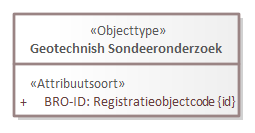
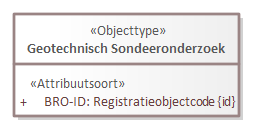
Conceptualmodel-GMWconceptueelMIM-1.1-1-20231103-20231120-144605

Changed region(s): [[0.0824, 0.3008, 0.8784, 0.4211]]

diff --git a/data/GMW-cat.msword.html b/data/GMW-cat.msword.html
@@ -15,7 +15,7 @@
    <body>
       <p>Conceptual model/GMW conceptueel MIM/20231103</p>
       <p>Imvertor: Nightly-build.13</p>
-      <p>Model release: Conceptualmodel-GMWconceptueelMIM-1.1-1-20231103-20231117-121644</p>
+      <p>Model release: Conceptualmodel-GMWconceptueelMIM-1.1-1-20231103-20231120-144605</p>
       <hr>
       <section>
          <h1>Artikel 1 Definitie van registratieobject, entiteiten en attributen</h1>
@@ -63,7 +63,7 @@
          <section>
             <h2>Het domeinmodel</h2>
             <section>
-               <div class="imageinfo overview"><img src="Images/EAID_E820AF53_7FB7_42e8_95C4_297D746526CE.png" usemap="#imagemap-EAID_E820AF53_7FB7_42e8_95C4_297D746526CE" alt="Diagram &#xA;                        &#xA;                     "><map name="imagemap-EAID_E820AF53_7FB7_42e8_95C4_297D746526CE"><area shape="rect" alt="Registratieobject" coords="655,42,928,217" href="#global_class_Model_Registratieobject"><area shape="rect" alt="Geotechnish Sondeeronderzoek" coords="1336,651,1562,755" href="#global_class_Model_GeotechnishSondeeronderzoek"><area shape="rect" alt="Verkenning" coords="1116,614,1238,665" href="#global_class_Model_Verkenning"><area shape="rect" alt="Booronderzoek" coords="1336,535,1562,639" href="#global_class_Model_Booronderzoek"><area shape="rect" alt="Monitoringbuis" coords="534,805,1025,1234" href="#global_class_Model_Monitoringbuis"><area shape="rect" alt="Toegepast materiaal" coords="534,1299,806,1438" href="#global_class_Model_Toegepastmateriaal"><area shape="rect" alt="Ingeplaatst deel" coords="1168,970,1482,1108" href="#global_class_Model_Ingeplaatstdeel"><area shape="rect" alt="Zandvang" coords="1168,805,1370,910" href="#global_class_Model_Zandvang"><area shape="rect" alt="Grondwatermonitoringput" coords="564,274,1006,756" href="#global_class_Model_Grondwatermonitoringput"><area shape="rect" alt="Geo-ohmkabel" coords="147,801,345,946" href="#global_class_Model_Geoohmkabel"><area shape="rect" alt="Filter" coords="656,1472,924,1647" href="#global_class_Model_Filter"><area shape="rect" alt="Elektrode" coords="82,1017,411,1172" href="#global_class_Model_Elektrode"><area shape="rect" alt="Stijgbuisdeel" coords="779,1695,993,1799" href="#global_class_Model_Stijgbuisdeel"></map><p><b>Grondwatermonitorput (GMW)</b></p>
+               <div class="imageinfo overview"><img src="Images/EAID_E820AF53_7FB7_42e8_95C4_297D746526CE.png" usemap="#imagemap-EAID_E820AF53_7FB7_42e8_95C4_297D746526CE" alt="Diagram &#xA;                        &#xA;                     "><map name="imagemap-EAID_E820AF53_7FB7_42e8_95C4_297D746526CE"><area shape="rect" alt="Registratieobject" coords="655,42,928,217" href="#global_class_Model_Registratieobject"><area shape="rect" alt="Geotechnisch Sondeeronderzoek" coords="1336,651,1562,755" href="#global_class_Model_GeotechnischSondeeronderzoek"><area shape="rect" alt="Verkenning" coords="1116,614,1238,665" href="#global_class_Model_Verkenning"><area shape="rect" alt="Booronderzoek" coords="1336,535,1562,639" href="#global_class_Model_Booronderzoek"><area shape="rect" alt="Monitoringbuis" coords="534,805,1025,1234" href="#global_class_Model_Monitoringbuis"><area shape="rect" alt="Toegepast materiaal" coords="534,1299,806,1438" href="#global_class_Model_Toegepastmateriaal"><area shape="rect" alt="Ingeplaatst deel" coords="1168,970,1482,1108" href="#global_class_Model_Ingeplaatstdeel"><area shape="rect" alt="Zandvang" coords="1168,805,1370,910" href="#global_class_Model_Zandvang"><area shape="rect" alt="Grondwatermonitoringput" coords="564,274,1006,756" href="#global_class_Model_Grondwatermonitoringput"><area shape="rect" alt="Geo-ohmkabel" coords="147,801,345,946" href="#global_class_Model_Geoohmkabel"><area shape="rect" alt="Filter" coords="656,1472,924,1647" href="#global_class_Model_Filter"><area shape="rect" alt="Elektrode" coords="82,1017,411,1172" href="#global_class_Model_Elektrode"><area shape="rect" alt="Stijgbuisdeel" coords="779,1695,993,1799" href="#global_class_Model_Stijgbuisdeel"></map><p><b>Grondwatermonitorput (GMW)</b></p>
                </div>
             </section>
          </section>
@@ -1625,7 +1625,7 @@
                               <td>
                                  
                                  Keuze uit
-                                 Geotechnish Sondeeronderzoek, Booronderzoek
+                                 Geotechnisch Sondeeronderzoek, Booronderzoek
                                  
                                  </td>
                            </tr>
@@ -5668,8 +5668,8 @@
                      </table>
                      </section>
                </section>
-               <section id="global_class_Model_GeotechnishSondeeronderzoek">
-                  <h3>   Geotechnish Sondeeronderzoek</h3>
+               <section id="global_class_Model_GeotechnischSondeeronderzoek">
+                  <h3>   Geotechnisch Sondeeronderzoek</h3>
                   <div class="imageinfo "><img src="Images/EAID_7AF7F787_F8D5_4c23_B16A_E88820289747.png" usemap="#imagemap-EAID_7AF7F787_F8D5_4c23_B16A_E88820289747" alt="Diagram "></div>
                   <table style="width: 100%;">
                      <colgroup style="width: 30%;"></colgroup>
@@ -5689,7 +5689,7 @@
                         </tr>
                      </tbody>
                   </table>
-                  <section id="detail_attribute_Model_GeotechnishSondeeronderzoek_BROID">
+                  <section id="detail_attribute_Model_GeotechnischSondeeronderzoek_BROID">
                      <h4>  BRO-ID</h4>
                      
                      <table style="width: 100%;">
@@ -5698,7 +5698,7 @@
                         <tbody>
                            <tr>
                               <th>Type gegeven</th>
-                              <td>Attribuut van Geotechnish Sondeeronderzoek</td>
+                              <td>Attribuut van Geotechnisch Sondeeronderzoek</td>
                            </tr>
                            <tr>
                               <th>Definitie</th>

diff --git a/data/GMW-cat.respec.html b/data/GMW-cat.respec.html
@@ -41,7 +41,7 @@
       </section>
    <section>
       <h2>Het domeinmodel   </h2>
-      <div class="imageinfo overview"><img src="data/Images/EAID_E820AF53_7FB7_42e8_95C4_297D746526CE.png" usemap="#imagemap-EAID_E820AF53_7FB7_42e8_95C4_297D746526CE" alt="Diagram &#xA;                        &#xA;                     "><map name="imagemap-EAID_E820AF53_7FB7_42e8_95C4_297D746526CE"><area shape="rect" alt="Registratieobject" coords="655,42,928,217" href="#global_class_Model_Registratieobject"><area shape="rect" alt="Geotechnish Sondeeronderzoek" coords="1336,651,1562,755" href="#global_class_Model_GeotechnishSondeeronderzoek"><area shape="rect" alt="Verkenning" coords="1116,614,1238,665" href="#global_class_Model_Verkenning"><area shape="rect" alt="Booronderzoek" coords="1336,535,1562,639" href="#global_class_Model_Booronderzoek"><area shape="rect" alt="Monitoringbuis" coords="534,805,1025,1234" href="#global_class_Model_Monitoringbuis"><area shape="rect" alt="Toegepast materiaal" coords="534,1299,806,1438" href="#global_class_Model_Toegepastmateriaal"><area shape="rect" alt="Ingeplaatst deel" coords="1168,970,1482,1108" href="#global_class_Model_Ingeplaatstdeel"><area shape="rect" alt="Zandvang" coords="1168,805,1370,910" href="#global_class_Model_Zandvang"><area shape="rect" alt="Grondwatermonitoringput" coords="564,274,1006,756" href="#global_class_Model_Grondwatermonitoringput"><area shape="rect" alt="Geo-ohmkabel" coords="147,801,345,946" href="#global_class_Model_Geoohmkabel"><area shape="rect" alt="Filter" coords="656,1472,924,1647" href="#global_class_Model_Filter"><area shape="rect" alt="Elektrode" coords="82,1017,411,1172" href="#global_class_Model_Elektrode"><area shape="rect" alt="Stijgbuisdeel" coords="779,1695,993,1799" href="#global_class_Model_Stijgbuisdeel"></map><p><b>Grondwatermonitorput (GMW)</b></p>
+      <div class="imageinfo overview"><img src="data/Images/EAID_E820AF53_7FB7_42e8_95C4_297D746526CE.png" usemap="#imagemap-EAID_E820AF53_7FB7_42e8_95C4_297D746526CE" alt="Diagram &#xA;                        &#xA;                     "><map name="imagemap-EAID_E820AF53_7FB7_42e8_95C4_297D746526CE"><area shape="rect" alt="Registratieobject" coords="655,42,928,217" href="#global_class_Model_Registratieobject"><area shape="rect" alt="Geotechnisch Sondeeronderzoek" coords="1336,651,1562,755" href="#global_class_Model_GeotechnischSondeeronderzoek"><area shape="rect" alt="Verkenning" coords="1116,614,1238,665" href="#global_class_Model_Verkenning"><area shape="rect" alt="Booronderzoek" coords="1336,535,1562,639" href="#global_class_Model_Booronderzoek"><area shape="rect" alt="Monitoringbuis" coords="534,805,1025,1234" href="#global_class_Model_Monitoringbuis"><area shape="rect" alt="Toegepast materiaal" coords="534,1299,806,1438" href="#global_class_Model_Toegepastmateriaal"><area shape="rect" alt="Ingeplaatst deel" coords="1168,970,1482,1108" href="#global_class_Model_Ingeplaatstdeel"><area shape="rect" alt="Zandvang" coords="1168,805,1370,910" href="#global_class_Model_Zandvang"><area shape="rect" alt="Grondwatermonitoringput" coords="564,274,1006,756" href="#global_class_Model_Grondwatermonitoringput"><area shape="rect" alt="Geo-ohmkabel" coords="147,801,345,946" href="#global_class_Model_Geoohmkabel"><area shape="rect" alt="Filter" coords="656,1472,924,1647" href="#global_class_Model_Filter"><area shape="rect" alt="Elektrode" coords="82,1017,411,1172" href="#global_class_Model_Elektrode"><area shape="rect" alt="Stijgbuisdeel" coords="779,1695,993,1799" href="#global_class_Model_Stijgbuisdeel"></map><p><b>Grondwatermonitorput (GMW)</b></p>
       </div>
    </section>
    <section>
@@ -1601,7 +1601,7 @@
                      <td>
                         
                         Keuze uit
-                        Geotechnish Sondeeronderzoek, Booronderzoek
+                        Geotechnisch Sondeeronderzoek, Booronderzoek
                         
                         </td>
                   </tr>
@@ -5644,8 +5644,8 @@
             </table>
             </section>
       </section>
-      <section id="global_class_Model_GeotechnishSondeeronderzoek">
-         <h3>   Geotechnish Sondeeronderzoek</h3>
+      <section id="global_class_Model_GeotechnischSondeeronderzoek">
+         <h3>   Geotechnisch Sondeeronderzoek</h3>
          <div class="imageinfo "><img src="data/Images/EAID_7AF7F787_F8D5_4c23_B16A_E88820289747.png" usemap="#imagemap-EAID_7AF7F787_F8D5_4c23_B16A_E88820289747" alt="Diagram "></div>
          <table style="width: 100%;">
             <colgroup style="width: 30%;"></colgroup>
@@ -5665,7 +5665,7 @@
                </tr>
             </tbody>
          </table>
-         <section id="detail_attribute_Model_GeotechnishSondeeronderzoek_BROID">
+         <section id="detail_attribute_Model_GeotechnischSondeeronderzoek_BROID">
             <h4>  BRO-ID</h4>
             
             <table style="width: 100%;">
@@ -5674,7 +5674,7 @@
                <tbody>
                   <tr>
                      <th>Type gegeven</th>
-                     <td>Attribuut van Geotechnish Sondeeronderzoek</td>
+                     <td>Attribuut van Geotechnisch Sondeeronderzoek</td>
                   </tr>
                   <tr>
                      <th>Definitie</th>
